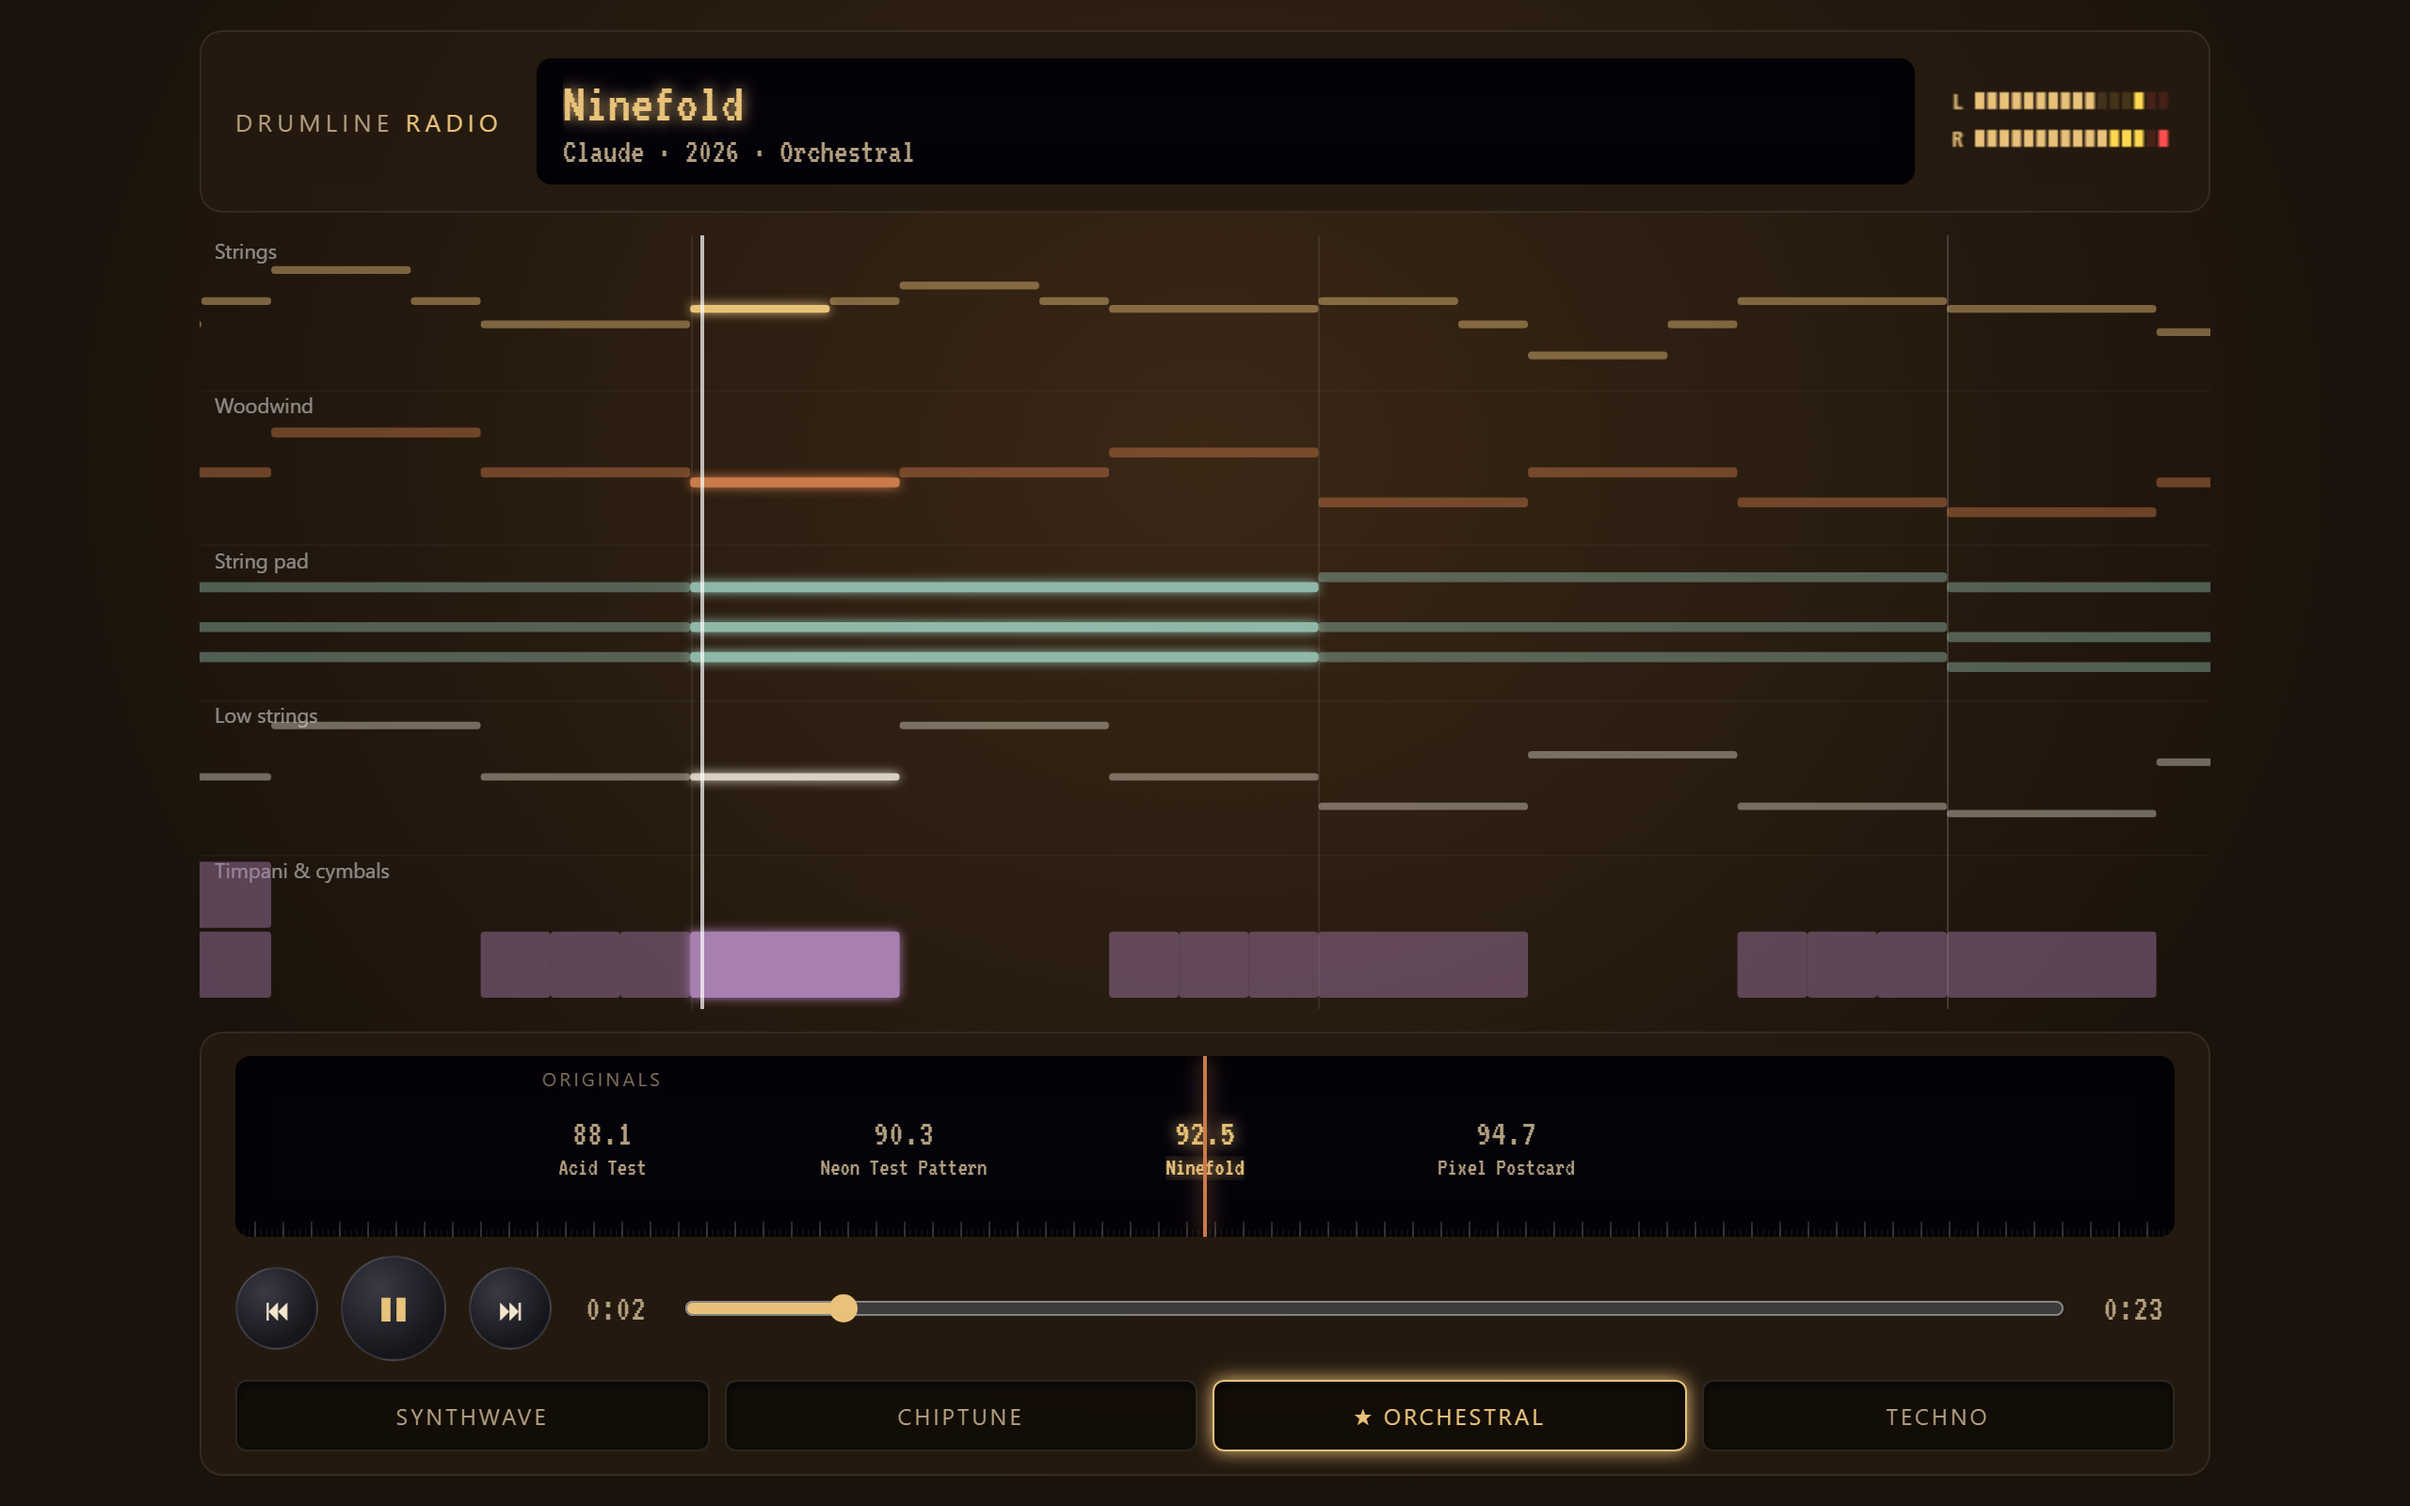
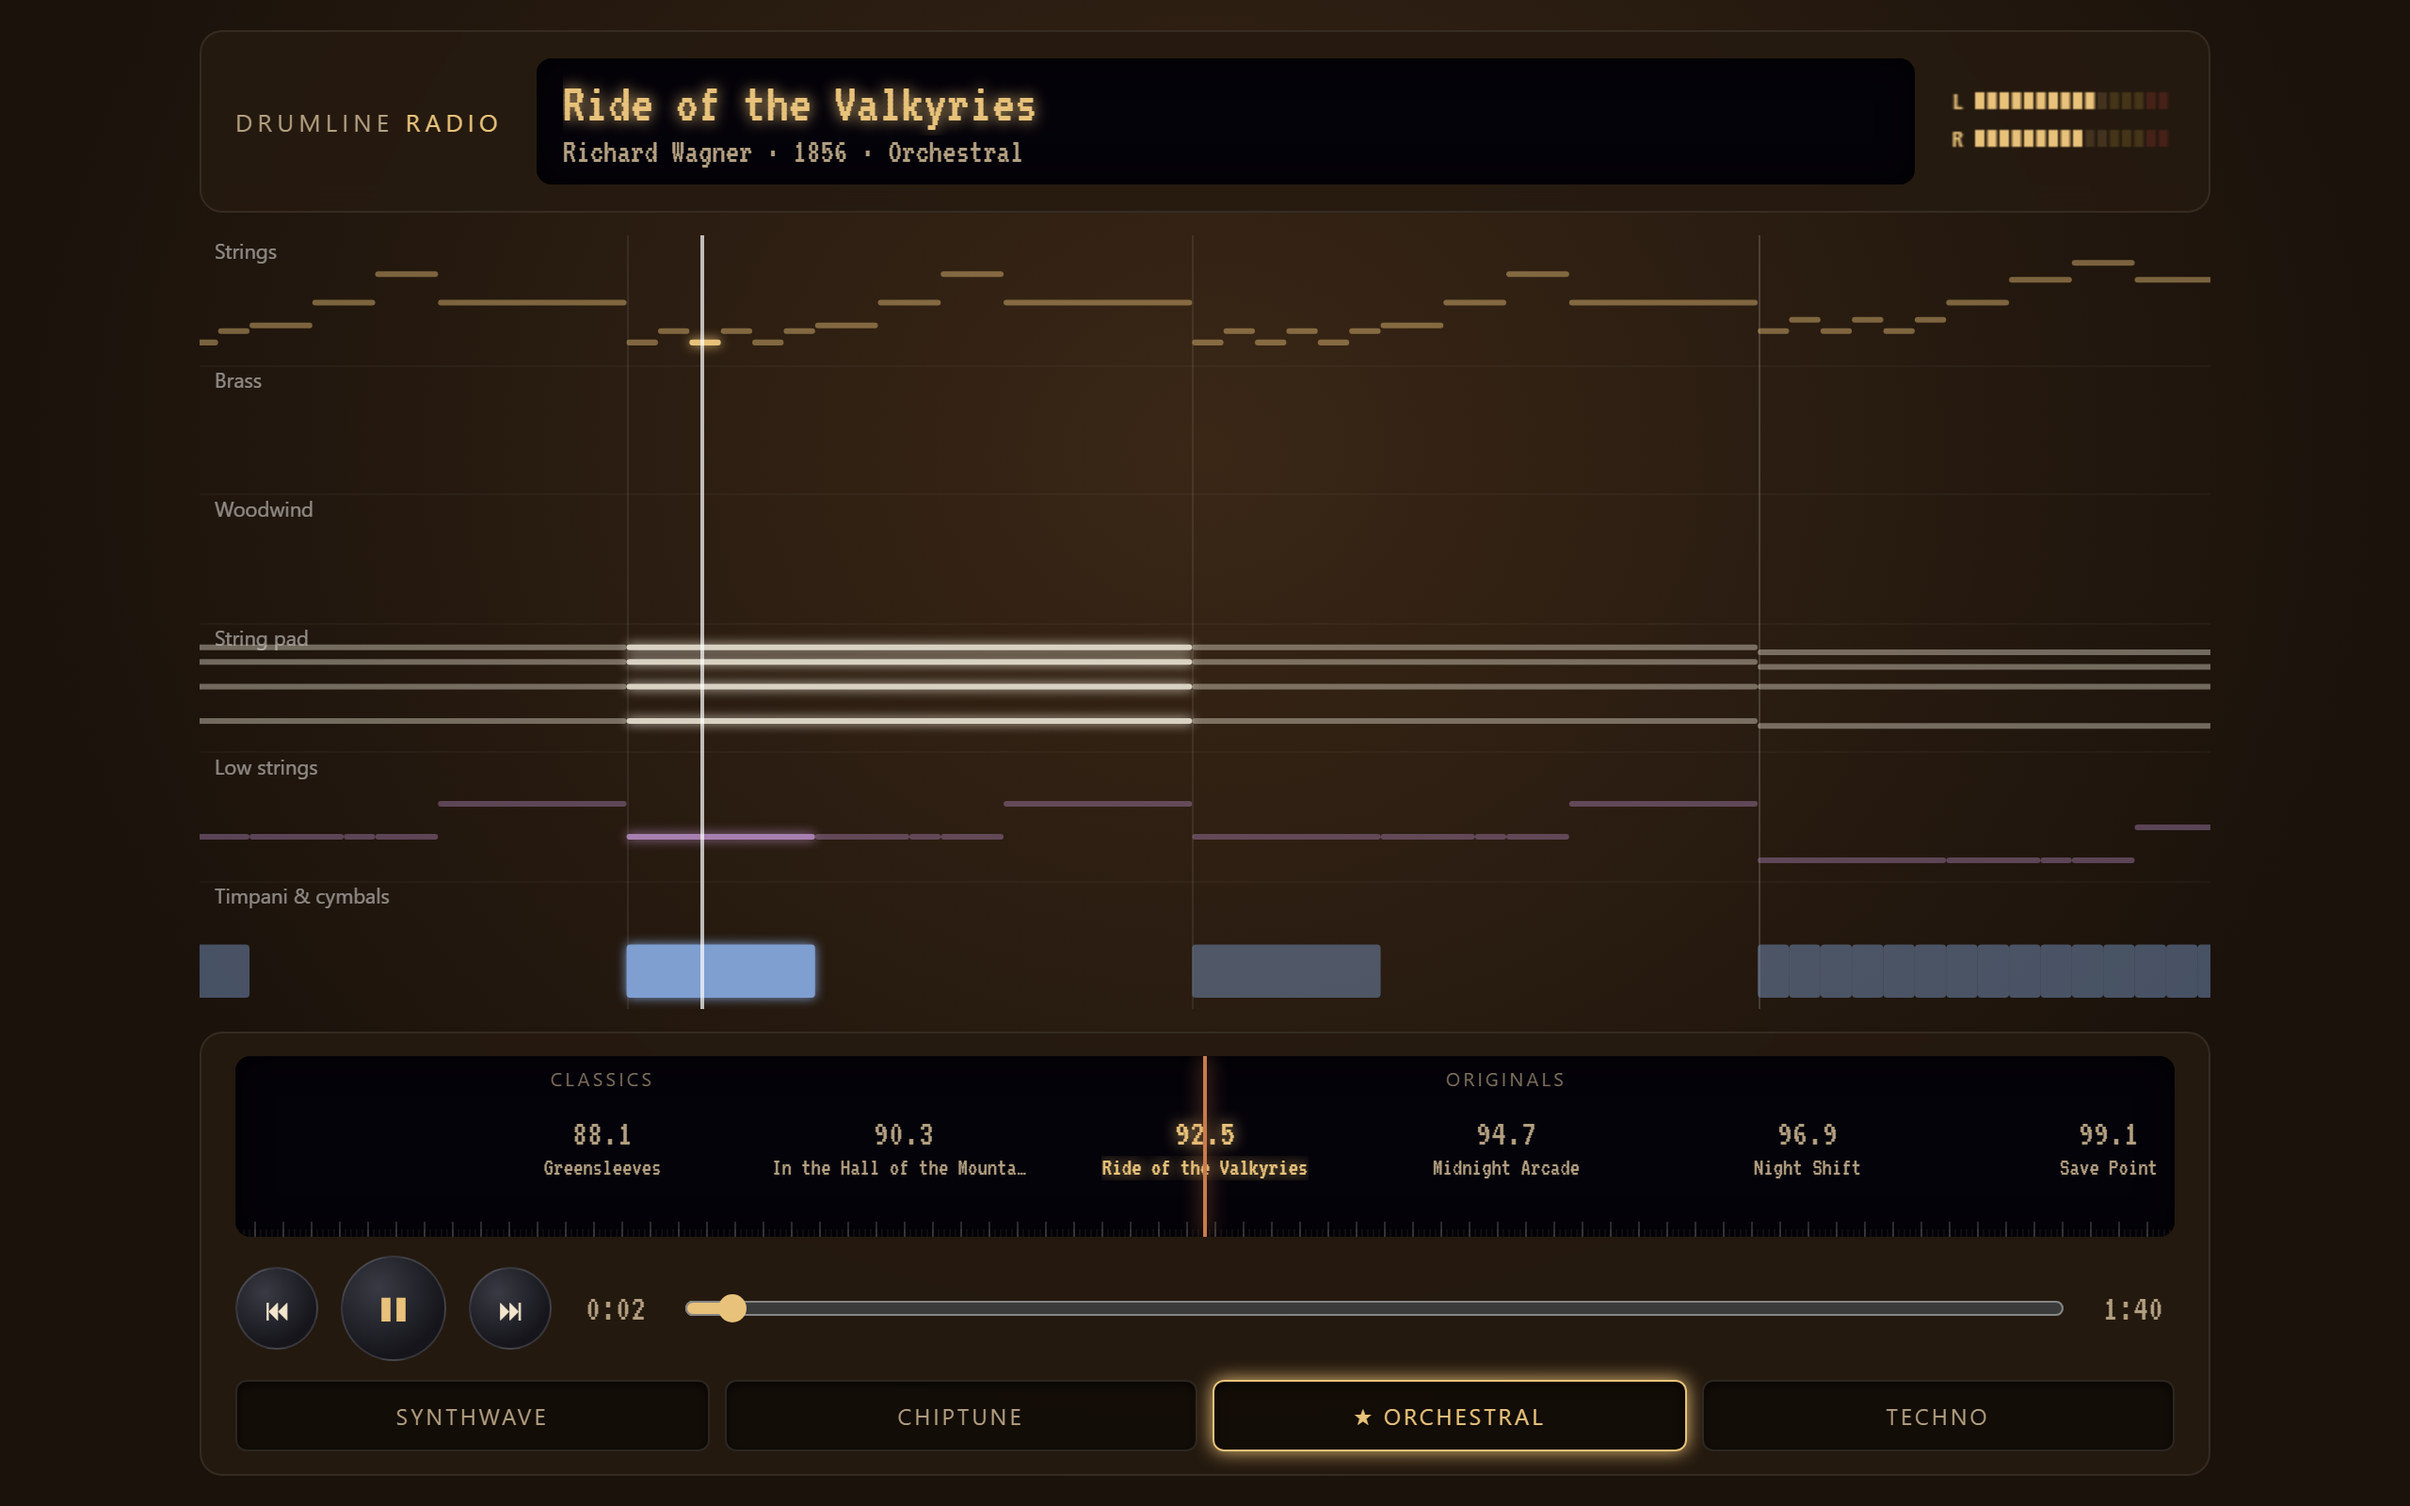
Louder, cleaner sound; drop the test songs
- Notes faded on an exponential curve and were cut at 2-4% level, so each
  ended with a small click. They now fade faster and stop at about 0.03%.
- The crush wet level sat before the bit-crusher, so quiet Chiptune music
  used only a few of its steps and buzzed. It is now applied after it,
  and Chiptune's crush is lower (0.2).
- Makeup gain after the compressor, a higher soft-clip knee, and full
  default volume: songs measure about 4-6 dB louder, near normal music
  loudness, without driving the soft clip.
- Orchestral strings are a bit darker and the synth bass less resonant.
- Tuning to a station now always plays it, and the dial keeps the current
  station under the needle when the window resizes.
- Removed the four short test songs; README screenshots show real songs.

diff --git a/src/engine.ts b/src/engine.ts
@@ -17,6 +17,7 @@ interface TrackChannel {
 
 const TICK_MS = 25;
 const LOOKAHEAD = 0.12;
+const MAKEUP_GAIN = 1.4;
 
 export class Engine {
   private readonly ctx: AudioContext;
@@ -27,6 +28,7 @@ export class Engine {
   private readonly crush: WaveShaperNode;
   private readonly lowpass: BiquadFilterNode;
   private readonly compressor: DynamicsCompressorNode;
+  private readonly makeup: GainNode;
   private readonly limiter: DynamicsCompressorNode;
   private readonly clip: WaveShaperNode;
   private readonly volume: GainNode;
@@ -46,7 +48,7 @@ export class Engine {
   private styleValue: StyleId = 'synthwave';
   private playingValue = false;
   private positionValue = 0;
-  private volumeValue = 0.8;
+  private volumeValue = 1;
   private startCtx = 0;
   private startPos = 0;
   private scheduledUntil = 0;
@@ -60,12 +62,14 @@ export class Engine {
     this.voiceKit = createVoiceKit(ctx);
 
     this.mix = ctx.createGain();
-    this.mix.gain.value = 0.7;
+    this.mix.gain.value = 1;
 
     this.dryGain = ctx.createGain();
     this.dryGain.gain.value = 1;
     this.wetGain = ctx.createGain();
     this.wetGain.gain.value = 0;
+    // The wet level is applied after the crusher. Turning the signal down before it would leave
+    // quiet music on only a few of its fixed steps, which buzzes.
     this.crush = ctx.createWaveShaper();
     this.crush.curve = crushCurve();
 
@@ -75,11 +79,15 @@ export class Engine {
     this.lowpass.Q.value = 0.7;
 
     this.compressor = ctx.createDynamicsCompressor();
-    this.compressor.threshold.value = -18;
+    this.compressor.threshold.value = -20;
     this.compressor.knee.value = 6;
     this.compressor.ratio.value = 3;
     this.compressor.attack.value = 0.01;
     this.compressor.release.value = 0.25;
+
+    // Makeup gain after the compressor brings songs up to normal music loudness.
+    this.makeup = ctx.createGain();
+    this.makeup.gain.value = MAKEUP_GAIN;
 
     this.limiter = ctx.createDynamicsCompressor();
     this.limiter.threshold.value = -3;
@@ -105,11 +113,12 @@ export class Engine {
 
     this.mix.connect(this.dryGain);
     this.dryGain.connect(this.lowpass);
-    this.mix.connect(this.wetGain);
-    this.wetGain.connect(this.crush);
-    this.crush.connect(this.lowpass);
+    this.mix.connect(this.crush);
+    this.crush.connect(this.wetGain);
+    this.wetGain.connect(this.lowpass);
     this.lowpass.connect(this.compressor);
-    this.compressor.connect(this.limiter);
+    this.compressor.connect(this.makeup);
+    this.makeup.connect(this.limiter);
     this.limiter.connect(this.clip);
     this.clip.connect(this.volume);
     this.volume.connect(ctx.destination);

diff --git a/tests/library.test.ts b/tests/library.test.ts
@@ -4,7 +4,7 @@ import { LIBRARY, LIBRARY_ERRORS } from '../src/library';
 describe('library', () => {
   it('parses every song', () => {
     expect(LIBRARY_ERRORS).toEqual([]);
-    expect(LIBRARY.length).toBe(10);
+    expect(LIBRARY.length).toBe(6);
   });
 
   it('orders by source then title', () => {
@@ -12,12 +12,8 @@ describe('library', () => {
       'greensleeves',
       'mountain-king',
       'valkyries',
-      'acid-test',
       'midnight-arcade',
-      'neon-test-pattern',
       'night-shift',
-      'ninefold',
-      'pixel-postcard',
       'save-point',
     ]);
   });
@@ -27,22 +23,15 @@ describe('library', () => {
       'orchestral',
       'chiptune',
       'orchestral',
-      'techno',
-      'synthwave',
       'synthwave',
       'techno',
-      'orchestral',
-      'chiptune',
       'chiptune',
     ]);
   });
 
-  it('parses the time signatures in ninefold', () => {
-    const ninefold = LIBRARY.find((entry) => entry.id === 'ninefold');
-    expect(ninefold).toBeDefined();
-    expect(ninefold?.song.bars[0].time).toEqual([9, 8]);
-    const bar9 = ninefold?.song.bars.find((bar) => bar.number === 9);
-    expect(bar9?.time).toEqual([6, 8]);
+  it('parses the time signatures in Greensleeves', () => {
+    const greensleeves = LIBRARY.find((entry) => entry.id === 'greensleeves');
+    expect(greensleeves?.song.bars.every((bar) => bar.time[0] === 3 && bar.time[1] === 4)).toBe(true);
   });
 
   it('puts the Valkyries in real 9/8', () => {

diff --git a/src/styles.ts b/src/styles.ts
@@ -153,7 +153,7 @@ export const STYLE_DEFS: Record<StyleId, StyleDef> = {
         name: 'Synth bass',
         oscs: [osc('sawtooth', 0, 0, 0.6), osc('square', -1, 0, 0.4)],
         env: env(0.005, 0.2, 0.6, 0.08),
-        filter: { type: 'lowpass', hz: 500, q: 4, envAmount: 4, envDecay: 0.12 },
+        filter: { type: 'lowpass', hz: 500, q: 2, envAmount: 4, envDecay: 0.12 },
         gain: 0.4,
         sends: { reverb: 0.2, delay: 0 },
       }),
@@ -256,7 +256,7 @@ export const STYLE_DEFS: Record<StyleId, StyleDef> = {
       delayBeats: 0.5,
       delaySend: 0.12,
       delayFeedback: 0.25,
-      crush: 0.35,
+      crush: 0.2,
       lowpassHz: 12000,
     },
     lanes: ['#7cff4f', '#4fd1ff', '#ffd84f', '#ff6f91', '#c792ff', '#ffffff'],
@@ -285,7 +285,7 @@ export const STYLE_DEFS: Record<StyleId, StyleDef> = {
           osc('sawtooth', 0, 7, 0.33),
         ],
         env: env(0.12, 0.4, 0.85, 0.5),
-        filter: { type: 'lowpass', hz: 3200, q: 0.5, envAmount: 1, envDecay: 0.3 },
+        filter: { type: 'lowpass', hz: 2400, q: 0.5, envAmount: 1, envDecay: 0.3 },
         vibrato: { rate: 5, cents: 14, delay: 0.3 },
         gain: 0.24,
         sends: { reverb: 1.2, delay: 0 },

diff --git a/src/voices.ts b/src/voices.ts
@@ -146,7 +146,9 @@ export function playSynth(
   env.gain.linearRampToValueAtTime(gain, time + attack);
   env.gain.setTargetAtTime(gain * sustain, time + attack, Math.max(0.001, decay / 3));
   const relStart = time + Math.max(duration, attack);
-  env.gain.setTargetAtTime(0, relStart, Math.max(0.001, release / 3));
+  // A time constant of release/4 and a stop at 2 × release leave the voice at about 0.03% of its
+  // level when it is cut, so notes end without a click.
+  env.gain.setTargetAtTime(0, relStart, Math.max(0.001, release / 4));
   env.connect(out);
   collected.nodes.push(env);
 
@@ -203,7 +205,7 @@ export function playSynth(
     collected.sources.push({ node: modulator });
   }
 
-  const end = relStart + release + 0.1;
+  const end = relStart + release * 2 + 0.05;
   return makeVoice(end, env, collected, time);
 }
 

diff --git a/src/ui.ts b/src/ui.ts
@@ -191,8 +191,11 @@ export function startUi(): void {
     loadSong(current + 1);
   }
 
+  // Tuning to a station always plays it, like a radio.
   const dial = createDial(dialEl, LIBRARY, (index) => {
+    const active = ensureEngine();
     loadSong(index);
+    if (active && !active.playing) active.play();
     updatePlayButton();
   });
 

diff --git a/src/dial.ts b/src/dial.ts
@@ -168,6 +168,9 @@ export function createDial(
     onTune(next);
   });
 
+  // Station spacing changes with the screen width, so keep the current station under the needle.
+  new ResizeObserver(() => select(current, false)).observe(el);
+
   return {
     select,
     tuning(): boolean {

diff --git a/src/curves.ts b/src/curves.ts
@@ -1,6 +1,6 @@
 // Wave-shaping curves and gain helpers. Pure: no DOM, no audio.
 
-export const SOFT_CLIP_KNEE = 0.7;
+export const SOFT_CLIP_KNEE = 0.85;
 export const SOFT_CLIP_CEILING = 0.95;
 export const SOFT_CLIP_POINTS = 4097;
 export const CRUSH_STEPS = 24;

diff --git a/docs/sound.md b/docs/sound.md
@@ -89,13 +89,16 @@ That is what makes remixes work. The score stores roles, not instruments, so swi
 
 All tracks meet at the mix bus and pass through:
 
-mix -> crush crossfade -> lowpass -> compressor -> limiter -> soft clip -> volume -> speakers
+mix -> crush crossfade -> lowpass -> compressor -> makeup gain -> limiter -> soft clip -> volume -> speakers
 
-- **Crush** is a dry/wet crossfade into a bit-crush wave shaper. Only Chiptune uses it.
+- **Crush** is a dry/wet crossfade with a bit-crush wave shaper. The wet level is applied after the
+  shaper, so quiet music still uses enough of its steps not to buzz. Only Chiptune uses it.
 - **Lowpass** is the style's ceiling for the whole mix.
-- **Compressor** and **limiter** keep the songs at a similar loudness.
-- **Soft clip** is a final safety net; it never lets the output exceed 0.95.
-- **Volume** follows the player's volume level (0 to 1, default 0.8).
+- **Compressor** (threshold -20 dB, ratio 3) evens out loudness between songs, the **makeup gain**
+  (×1.4) brings them up to normal music loudness, and the **limiter** (threshold -3 dB) catches peaks.
+- **Soft clip** is a final safety net: it leaves the signal untouched below 0.85 and never lets the
+  output exceed 0.95.
+- **Volume** follows the player's volume level (0 to 1, default 1).
 
 The soft clip output also feeds two analysers, one per channel, which is where the VU meters get
 their levels.

diff --git a/README.md b/README.md
@@ -6,7 +6,7 @@ Claude, and Claude's own originals. It is the sibling of
 
 **Play it:** https://stansz.github.io/drumline-radio/
 
-![Neon Test Pattern playing in the Synthwave style](docs/images/synthwave.png)
+![Midnight Arcade playing in the Synthwave style](docs/images/synthwave.png)
 
 It looks like a hi-fi radio tuner and plays the songs with a Web Audio synth:
 
@@ -19,7 +19,7 @@ It looks like a hi-fi radio tuner and plays the songs with a Web Audio synth:
 
 | Orchestral | Phone |
 |---|---|
-| ![Ninefold in the Orchestral style](docs/images/orchestral.png) | <img src="docs/images/phone.png" alt="Pixel Postcard in the Chiptune style on a phone" width="260"> |
+| ![Ride of the Valkyries in the Orchestral style](docs/images/orchestral.png) | <img src="docs/images/phone.png" alt="The player on a phone" width="260"> |
 
 The sound engine, and how to add a patch or a style, are described in
 [docs/sound.md](docs/sound.md).
@@ -35,9 +35,9 @@ Public-domain melodies, arranged by Claude:
 
 Claude originals:
 
-- **Midnight Arcade** (Synthwave), **Night Shift** (Techno), **Save Point** (Chiptune)
-- Short test pieces, one per style: **Acid Test** (Techno), **Neon Test Pattern** (Synthwave),
-  **Ninefold** (Orchestral), **Pixel Postcard** (Chiptune)
+- **Midnight Arcade** (Synthwave)
+- **Night Shift** (Techno)
+- **Save Point** (Chiptune)
 
 ## Song format
 
